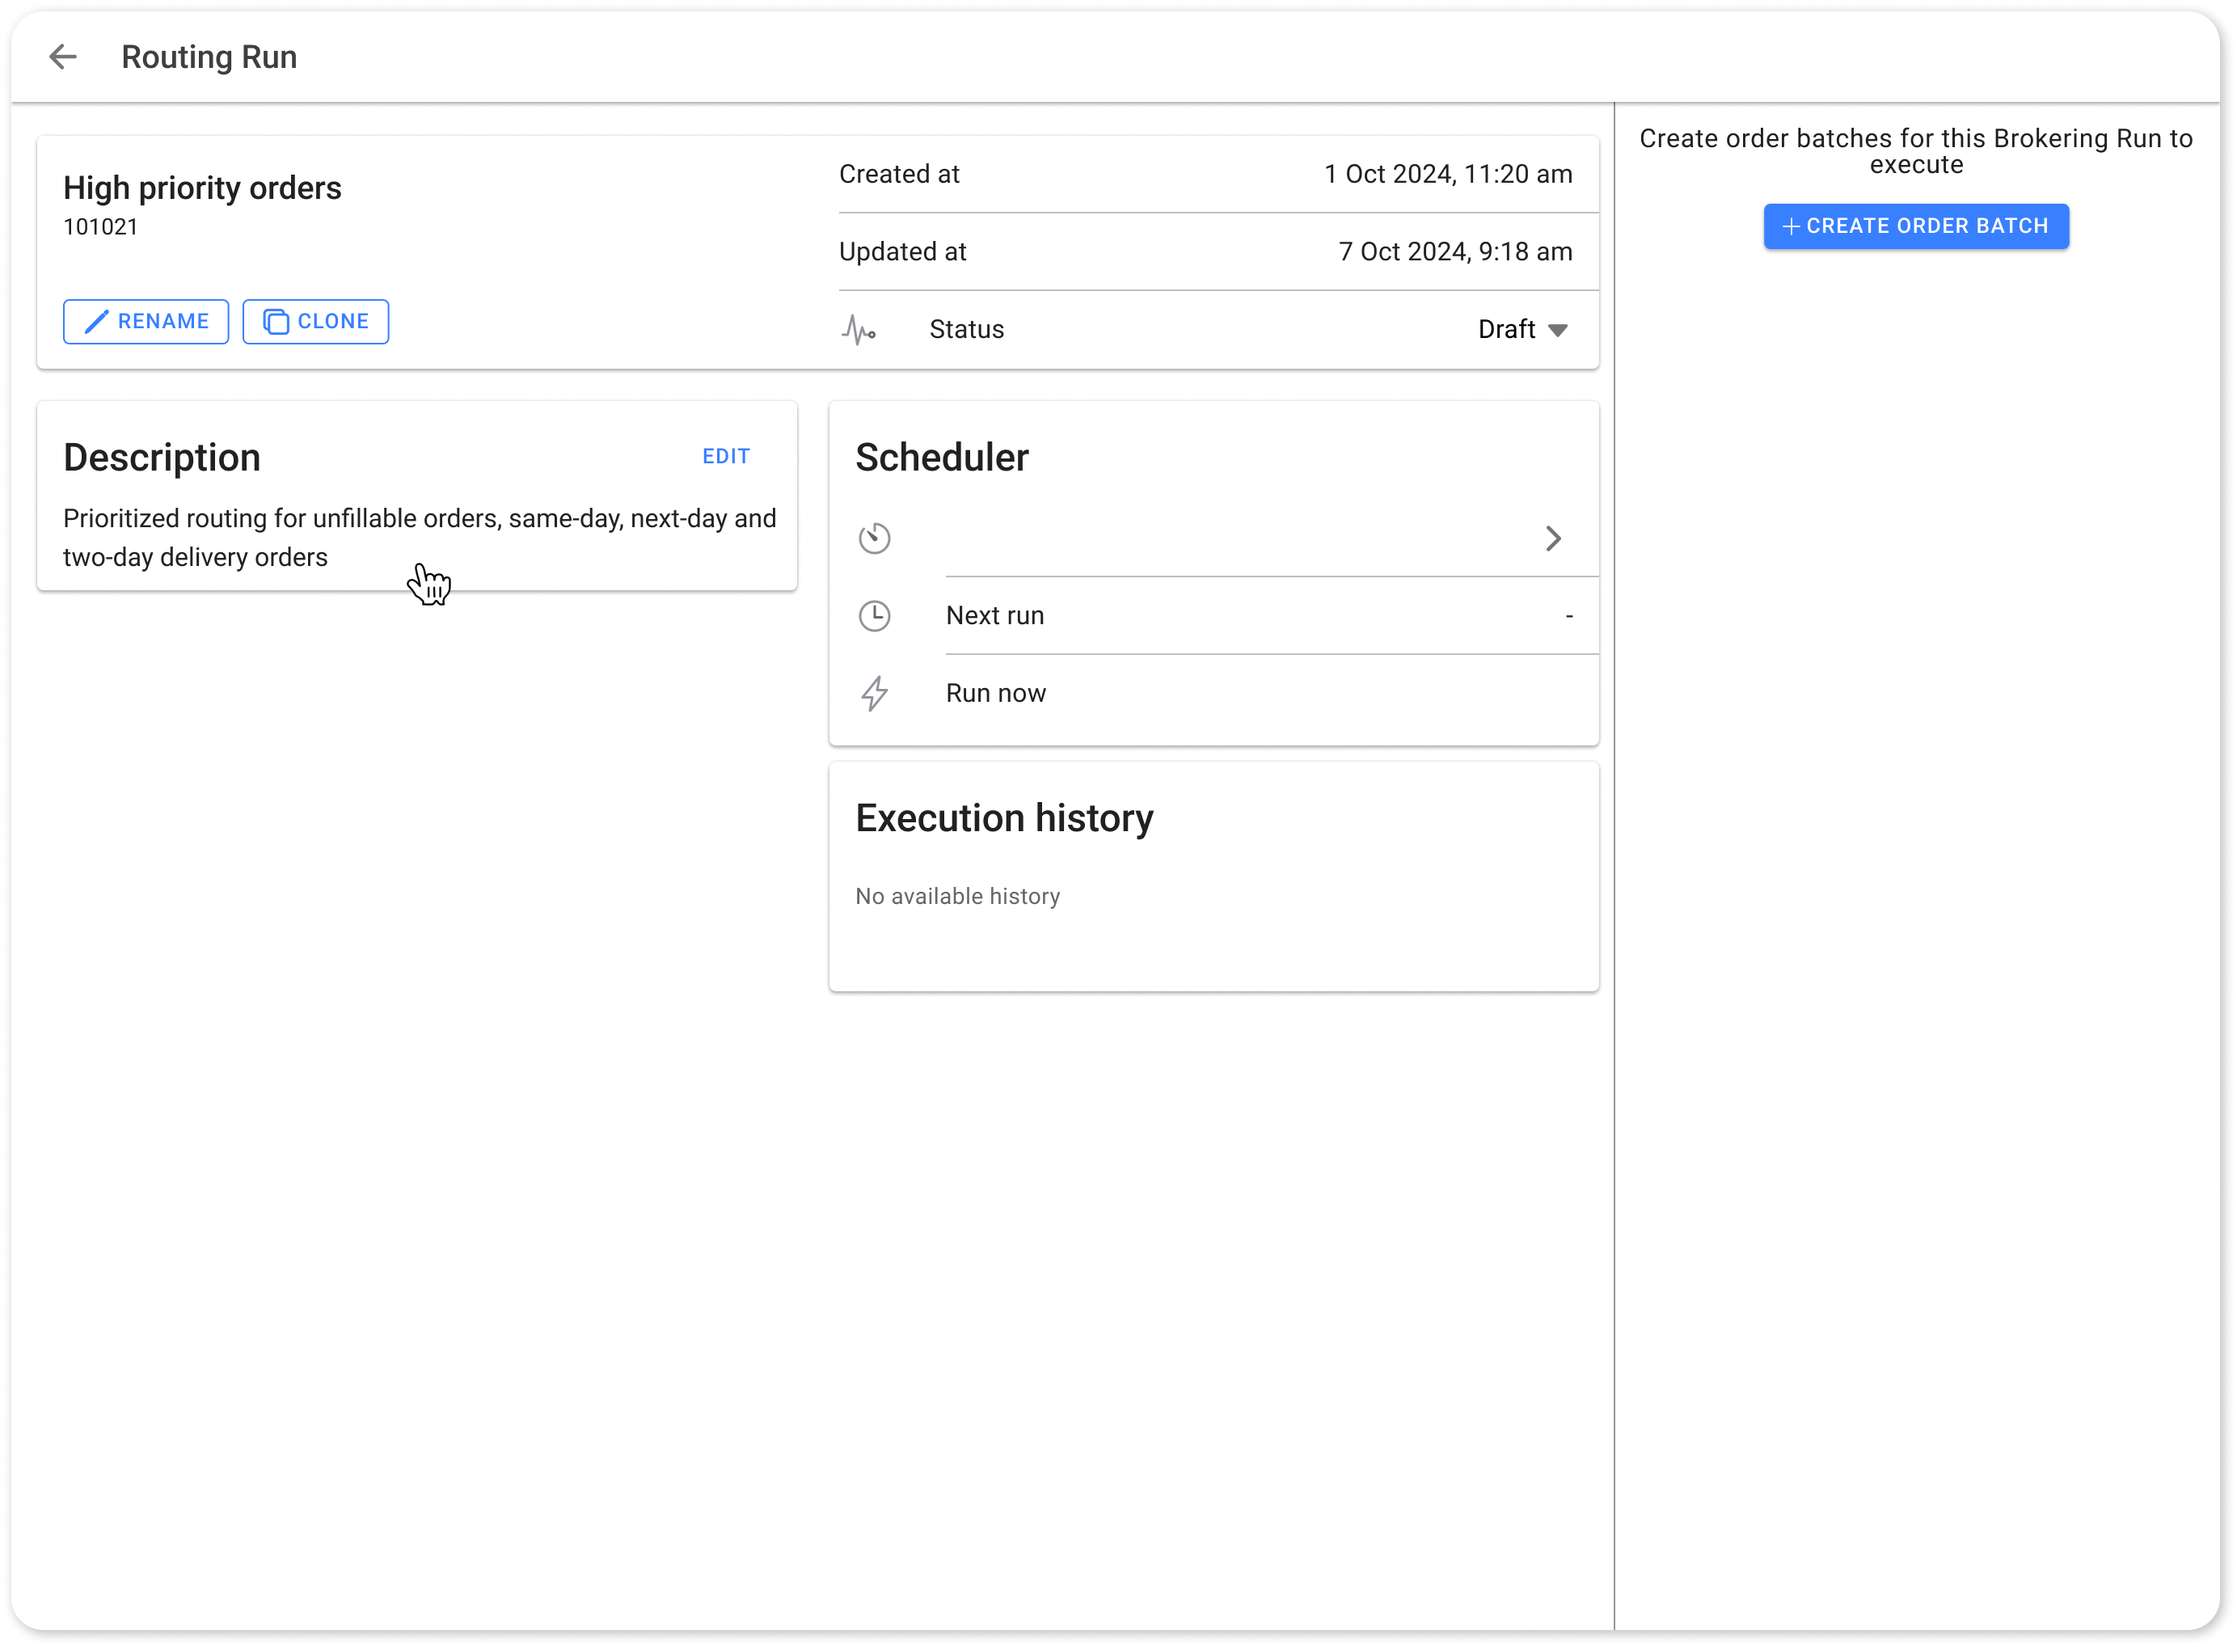
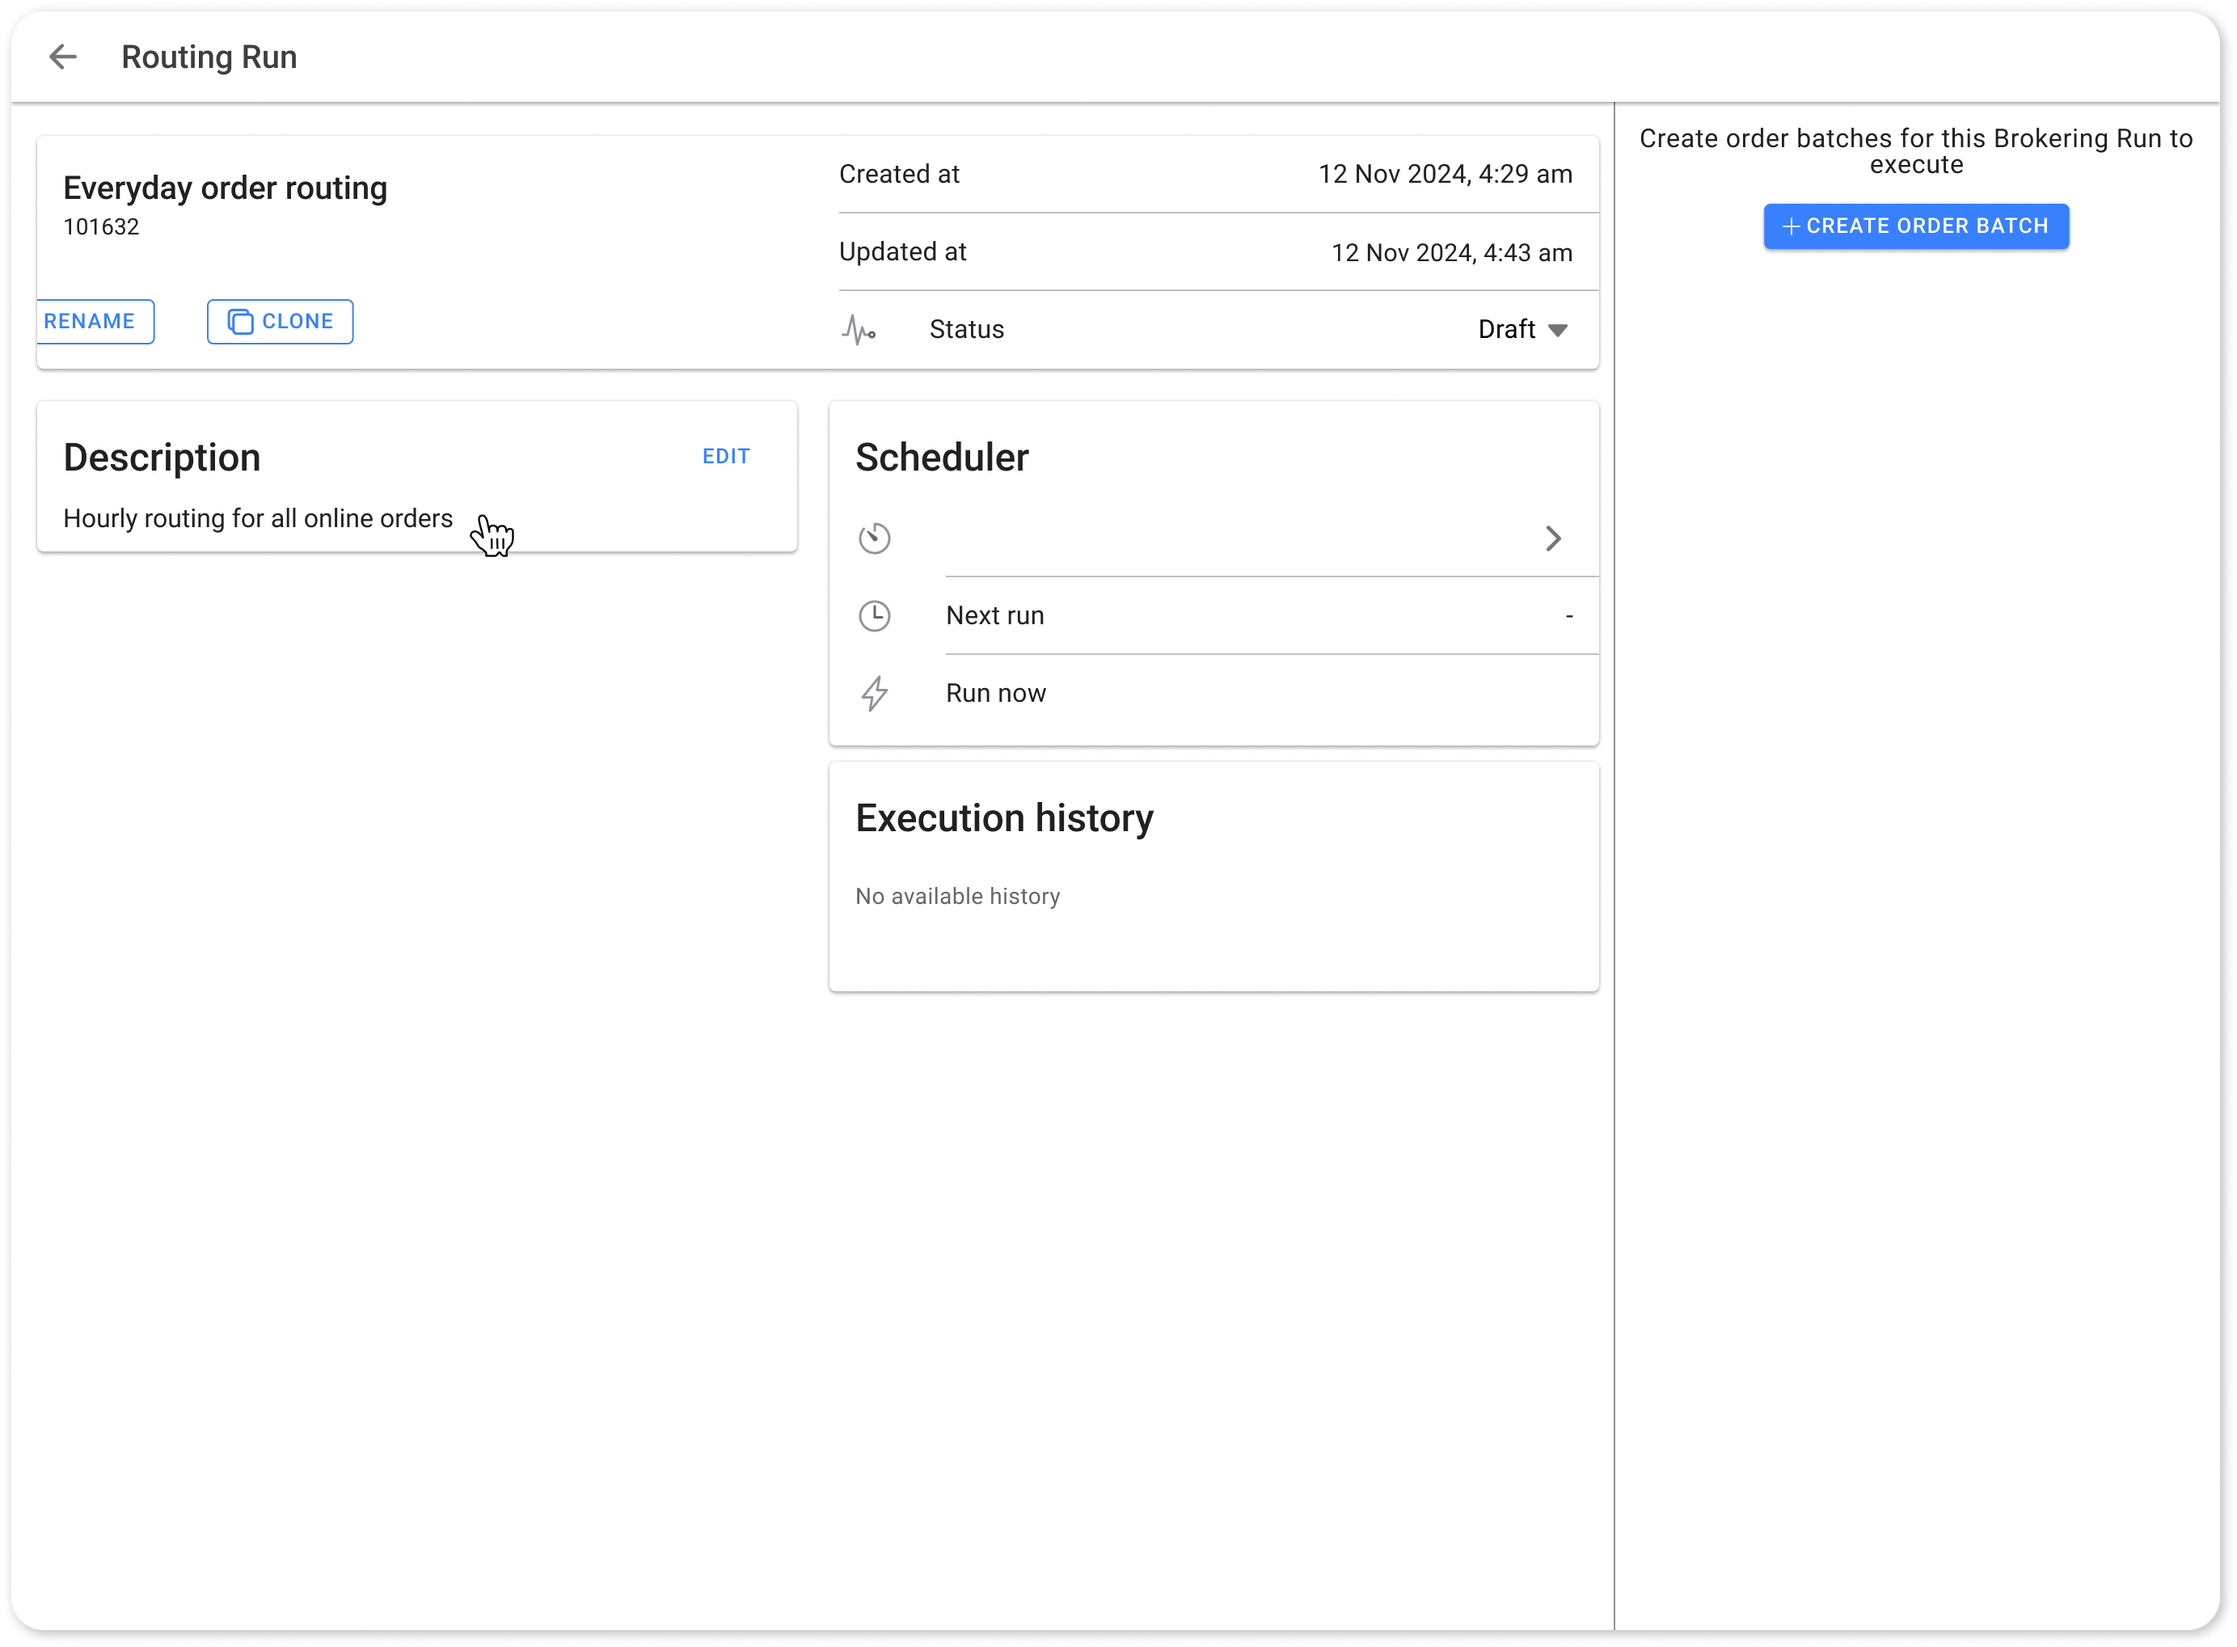
GITBOOK-136: Brokering run image update

diff --git a/documents/retail-operations/brokering/brokeringruns.md b/documents/retail-operations/brokering/brokeringruns.md
@@ -68,7 +68,7 @@ If you have multiple product stores, you’ll be prompted to choose the store fo
    * Click on a specific `Run` to open its details and now navigate to the Description card and add description that best describes your run.
    * For example, if there is a single brokering run "everyday order routing", you can write: “Hourly routing for all online orders” or if the run focuses on urgent orders, you can write: “Prioritized routing for same-day, next-day, and two-day delivery orders.”
 
-<figure><img src="../.gitbook/assets/Run details (2).png" alt=""><figcaption><p>Brokering Run Description</p></figcaption></figure>
+<figure><img src="../.gitbook/assets/Run details.png" alt=""><figcaption><p>Brokering Run Description</p></figcaption></figure>
 
 5. **Schedule the Brokering Run using Predefined Frequency or Cron Expressions**
 
